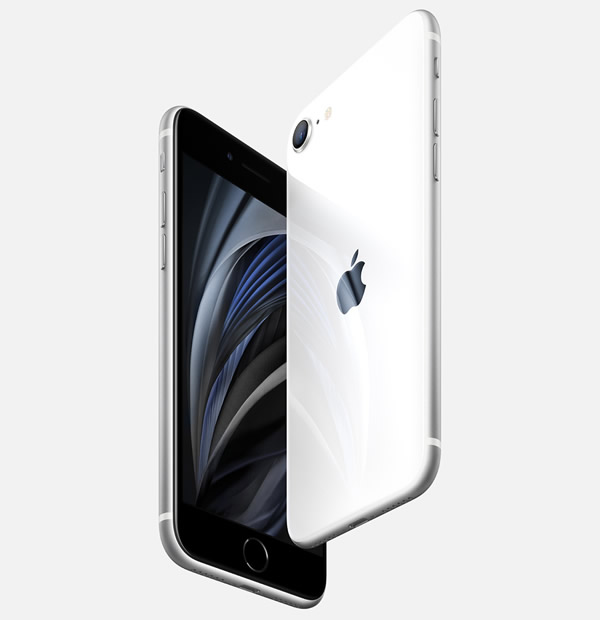
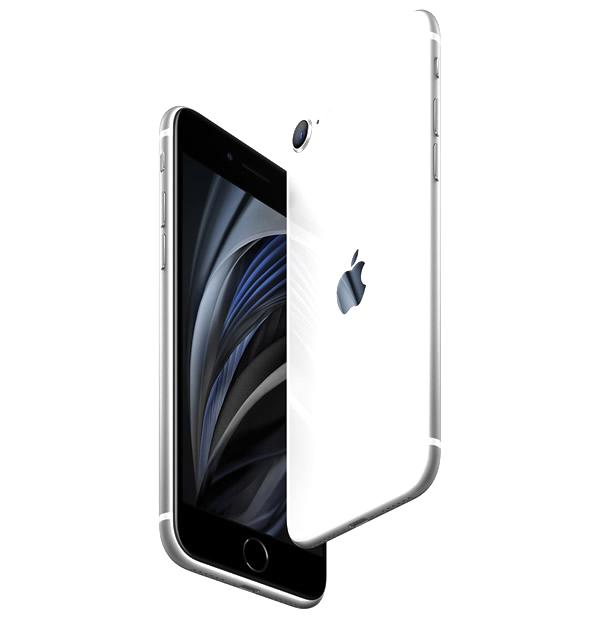
Fix product photo backgrounds, smooth page gradient, and scope home sections
- Swap funda_iphone15 primary/secondary images and normalize stray
  gray backgrounds on iphone13, iphone_se, ipad_10gen_2, galaxy_watch6_2
  and anker_20w_2 so all product cards sit on a clean white background
- Make the body background gradient span the full page instead of
  cutting to a flat color after 420px, and flatten the pink/blue/green
  section panels so products don't sit on visibly different shades
- Scope each home section's "Ver todos" link to what it actually shows
  (ofertas/destacados/nuevos) instead of the full catalog, with a
  "ver todo el catálogo" way out from the filtered view
- Add a clickable "Nuevos ingresos" banner to the home page linking to
  the new-arrivals filter, and drop the redundant per-item NUEVO tag

diff --git a/tienda-online/assets/css/style.css b/tienda-online/assets/css/style.css
@@ -3,7 +3,7 @@
 :root {
     --azul-oscuro: #1a2a4a;
     --acento: #2f6fed;
-    --fondo: #f5f6fa;
+    --fondo: #e9eef8;
     --texto: #222;
     --texto-suave: #666;
     --borde: #e4e7ee;
@@ -21,7 +21,7 @@ html, body {
 }
 
 body {
-    background-color: var(--fondo);
+    background: linear-gradient(180deg, #d7e3f7 0%, var(--fondo) 100%);
     color: var(--texto);
     display: flex;
     flex-direction: column;
@@ -34,8 +34,9 @@ a {
 }
 
 header {
-    background-color: var(--azul-oscuro);
-    color: #fff;
+    background-color: #fff;
+    color: var(--texto);
+    border-bottom: 1px solid var(--borde);
     padding: 1rem 2rem;
     display: flex;
     justify-content: space-between;
@@ -61,6 +62,7 @@ header .logo {
     display: flex;
     align-items: center;
     background: #fff;
+    border: 1px solid var(--borde);
     border-radius: 8px;
     overflow: hidden;
     flex-grow: 1;
@@ -109,12 +111,12 @@ header nav {
 }
 
 header nav a {
-    color: #cfd7e8;
+    color: var(--texto-suave);
     font-size: 0.9rem;
 }
 
 header nav a.activo {
-    color: #fff;
+    color: var(--azul-oscuro);
     font-weight: 600;
 }
 
@@ -133,8 +135,8 @@ header nav a.boton {
 }
 
 .btn-categorias {
-    background: rgba(255, 255, 255, 0.1);
-    color: #fff;
+    background: var(--fondo);
+    color: var(--azul-oscuro);
     border: none;
     padding: 0.55rem 0.9rem;
     border-radius: 6px;
@@ -146,7 +148,7 @@ header nav a.boton {
 }
 
 .btn-categorias:hover {
-    background: rgba(255, 255, 255, 0.2);
+    background: #e4e7ee;
 }
 
 .panel-categorias {
@@ -198,7 +200,7 @@ header nav a.boton {
 .btn-carrito-nav {
     background: none;
     border: none;
-    color: #cfd7e8;
+    color: var(--texto-suave);
     font-size: 0.9rem;
     cursor: pointer;
     padding: 0;
@@ -206,7 +208,7 @@ header nav a.boton {
 }
 
 .btn-carrito-nav:hover {
-    color: #fff;
+    color: var(--acento);
 }
 
 .panel-carrito-mini {
@@ -358,8 +360,9 @@ main {
 }
 
 footer {
-    background: var(--azul-oscuro);
-    color: #cfd7e8;
+    background: #fff;
+    color: var(--texto-suave);
+    border-top: 1px solid var(--borde);
     text-align: center;
     padding: 1rem;
     font-size: 0.85rem;
@@ -391,19 +394,19 @@ footer {
 }
 
 .footer-col h4 {
-    color: #fff;
+    color: var(--azul-oscuro);
     font-size: 0.9rem;
     margin-bottom: 0.4rem;
 }
 
 .footer-col a,
 .footer-col p {
-    color: #cfd7e8;
+    color: var(--texto-suave);
     font-size: 0.85rem;
 }
 
 .footer-col a:hover {
-    color: #fff;
+    color: var(--acento);
 }
 
 .footer-col .logo-img {
@@ -421,7 +424,7 @@ footer {
     width: 34px;
     height: 34px;
     border-radius: 50%;
-    background: rgba(255, 255, 255, 0.1);
+    background: var(--fondo);
     display: flex;
     align-items: center;
     justify-content: center;
@@ -439,7 +442,7 @@ footer {
 }
 
 .footer-inferior {
-    border-top: 1px solid rgba(255, 255, 255, 0.12);
+    border-top: 1px solid var(--borde);
     text-align: center;
     padding: 1rem;
     font-size: 0.8rem;
@@ -461,6 +464,17 @@ footer {
     font-size: 0.95rem;
     margin-bottom: 1.5rem;
     background: #fff;
+}
+
+.filtro-activo-info {
+    margin: -0.5rem 0 1rem;
+    color: var(--texto-suave);
+    font-size: 0.9rem;
+}
+
+.filtro-activo-info a {
+    color: var(--acento);
+    font-weight: 600;
 }
 
 .layout-catalogo {
@@ -836,15 +850,33 @@ footer {
 }
 
 .seccion-ofertas {
-    background: linear-gradient(135deg, #fff1f0, #ffe1df);
+    background: #ffd9d3;
 }
 
 .seccion-destacados {
-    background: linear-gradient(135deg, #eef2fb, #e3e9f8);
+    background: #d3e0f9;
 }
 
 .seccion-nuevos {
-    background: linear-gradient(135deg, #eafbf3, #dcf5e9);
+    background: #c5f1dc;
+}
+
+.banner-seccion {
+    display: block;
+    margin-bottom: 1.5rem;
+    border-radius: 12px;
+    overflow: hidden;
+    transition: opacity 0.2s ease;
+}
+
+.banner-seccion:hover {
+    opacity: 0.92;
+}
+
+.banner-seccion img {
+    display: block;
+    width: 100%;
+    height: auto;
 }
 
 /* Productos destacados: grilla fija de 4, sin scroll */

diff --git a/tienda-online/assets/js/productos.js b/tienda-online/assets/js/productos.js
@@ -2,6 +2,18 @@
 
 let TODOS_LOS_PRODUCTOS = [];
 
+// Secciones de la home ("Ver todos ›") que llegan al catálogo con ?filtro=... :
+// cada una limita el listado a lo que esa sección realmente muestra, en vez
+// de todo el catálogo (que solo se ve entrando por "Catálogo" o sin filtro).
+const FILTROS_SECCION = {
+    ofertas: { titulo: '🔥 Ofertas del mes' },
+    destacados: { titulo: '⭐ Productos destacados' },
+    nuevos: { titulo: '🆕 Ingreso nuevo' }
+};
+
+let FILTRO_SECCION_ACTUAL = null;
+let IDS_FILTRO_SECCION = null;
+
 async function cargarProductos() {
     const contenedor = document.getElementById('grid-productos');
 
@@ -21,11 +33,41 @@ async function cargarProductos() {
         llenarSelectCategorias(categorias);
         preseleccionarCategoriaDesdeUrl();
         preseleccionarBusquedaDesdeUrl();
+        aplicarFiltroSeccionDesdeUrl();
         aplicarFiltros();
     } catch (error) {
         contenedor.innerHTML = '<p>No se pudieron cargar los productos. Verifica que el servidor y la base de datos estén activos.</p>';
         console.error(error);
     }
+}
+
+function aplicarFiltroSeccionDesdeUrl() {
+    const params = new URLSearchParams(window.location.search);
+    const filtro = params.get('filtro');
+    if (!filtro || !FILTROS_SECCION[filtro]) return;
+
+    FILTRO_SECCION_ACTUAL = filtro;
+
+    if (filtro === 'destacados') {
+        IDS_FILTRO_SECCION = new Set(seleccionarDestacadosPorCategoria(TODOS_LOS_PRODUCTOS, 2).map(p => p.id_producto));
+    } else if (filtro === 'nuevos') {
+        IDS_FILTRO_SECCION = new Set(seleccionarNuevos(TODOS_LOS_PRODUCTOS, 10).map(p => p.id_producto));
+    }
+
+    const titulo = document.getElementById('titulo-catalogo');
+    if (titulo) titulo.textContent = FILTROS_SECCION[filtro].titulo;
+
+    const aviso = document.getElementById('filtro-activo-info');
+    if (aviso) {
+        aviso.innerHTML = 'Mostrando solo esta sección. <a href="productos.php">Ver todo el catálogo ›</a>';
+        aviso.style.display = 'block';
+    }
+}
+
+function coincideFiltroSeccion(producto) {
+    if (!FILTRO_SECCION_ACTUAL) return true;
+    if (FILTRO_SECCION_ACTUAL === 'ofertas') return Boolean(producto.precio_oferta);
+    return IDS_FILTRO_SECCION.has(producto.id_producto);
 }
 
 function preseleccionarCategoriaDesdeUrl() {
@@ -99,7 +141,7 @@ function aplicarFiltros() {
         const coincidePrecio = !precioMax || Number(producto.precio) <= Number(precioMax);
         const coincideDisponibilidad = !soloDisponibles || Number(producto.cantidad) > 0;
 
-        return coincideTexto && coincideCategoria && coincidePrecio && coincideDisponibilidad;
+        return coincideTexto && coincideCategoria && coincidePrecio && coincideDisponibilidad && coincideFiltroSeccion(producto);
     });
 
     renderizarProductos(resultado);

diff --git a/tienda-online/assets/js/inicio.js b/tienda-online/assets/js/inicio.js
@@ -8,7 +8,7 @@ async function cargarSeccionesProductos() {
 
         renderizarCarrusel('grid-ofertas', productos.filter(producto => producto.precio_oferta));
         renderizarGrillaFija('grid-destacados', seleccionarDestacadosPorCategoria(productos, 2).slice(0, 4));
-        renderizarListaNuevos('grid-nuevos', [...productos].sort((a, b) => b.id_producto - a.id_producto).slice(0, 5));
+        renderizarListaNuevos('grid-nuevos', seleccionarNuevos(productos, 5));
     } catch (error) {
         ['grid-destacados', 'grid-ofertas', 'grid-nuevos'].forEach(id => {
             const contenedor = document.getElementById(id);
@@ -55,7 +55,6 @@ function renderizarListaNuevos(idContenedor, productos) {
         <div class="item-nuevo">
             <div class="imagen-producto">${imagenProductoHtml(producto)}</div>
             <div class="info-nuevo">
-                <span class="etiqueta-nuevo">NUEVO</span>
                 <h3>${producto.nombre}</h3>
                 ${renderizarPrecioHtml(producto)}
             </div>
@@ -64,20 +63,6 @@ function renderizarListaNuevos(idContenedor, productos) {
                 : `<p class="sin-stock">Sin stock</p>`}
         </div>
     `).join('');
-}
-
-function seleccionarDestacadosPorCategoria(productos, cantidadPorCategoria) {
-    const porCategoria = {};
-
-    for (const producto of productos) {
-        const idCategoria = producto.id_categoria;
-        if (!porCategoria[idCategoria]) porCategoria[idCategoria] = [];
-        if (porCategoria[idCategoria].length < cantidadPorCategoria) {
-            porCategoria[idCategoria].push(producto);
-        }
-    }
-
-    return Object.values(porCategoria).flat();
 }
 
 function moverCarruselOfertas(direccion) {

diff --git a/tienda-online/assets/js/cart-utils.js b/tienda-online/assets/js/cart-utils.js
@@ -57,6 +57,26 @@ function renderizarTarjetaProductoHtml(producto) {
     `;
 }
 
+// Selección compartida entre inicio.js (secciones de la home) y productos.js
+// (catálogo filtrado desde "Ver todos ›" de cada sección)
+function seleccionarDestacadosPorCategoria(productos, cantidadPorCategoria) {
+    const porCategoria = {};
+
+    for (const producto of productos) {
+        const idCategoria = producto.id_categoria;
+        if (!porCategoria[idCategoria]) porCategoria[idCategoria] = [];
+        if (porCategoria[idCategoria].length < cantidadPorCategoria) {
+            porCategoria[idCategoria].push(producto);
+        }
+    }
+
+    return Object.values(porCategoria).flat();
+}
+
+function seleccionarNuevos(productos, cantidad) {
+    return [...productos].sort((a, b) => b.id_producto - a.id_producto).slice(0, cantidad);
+}
+
 function obtenerCarrito() {
     try {
         return JSON.parse(localStorage.getItem(CARRITO_KEY)) || [];

diff --git a/tienda-online/index.php b/tienda-online/index.php
@@ -65,7 +65,7 @@
         <section class="seccion-productos seccion-ofertas">
             <div class="encabezado-seccion">
                 <h2>🔥 Ofertas del mes</h2>
-                <a class="ver-mas" href="productos.php">Ver todos ›</a>
+                <a class="ver-mas" href="productos.php?filtro=ofertas">Ver todos ›</a>
             </div>
             <div class="carrusel-destacados">
                 <div class="carrusel-pista" id="grid-ofertas">
@@ -79,7 +79,7 @@
         <section class="seccion-productos seccion-destacados">
             <div class="encabezado-seccion">
                 <h2>⭐ Productos destacados</h2>
-                <a class="ver-mas" href="productos.php">Ver todos ›</a>
+                <a class="ver-mas" href="productos.php?filtro=destacados">Ver todos ›</a>
             </div>
             <div class="grid-destacados-fijo" id="grid-destacados">
                 <p>Cargando productos...</p>
@@ -89,8 +89,11 @@
         <section class="seccion-productos seccion-nuevos">
             <div class="encabezado-seccion">
                 <h2>🆕 Ingreso nuevo</h2>
-                <a class="ver-mas" href="productos.php">Ver todos ›</a>
+                <a class="ver-mas" href="productos.php?filtro=nuevos">Ver todos ›</a>
             </div>
+            <a href="productos.php?filtro=nuevos" class="banner-seccion">
+                <img src="assets/img/banner_nuevos.png" alt="Nuevos ingresos: los mejores celulares, laptops y más recién llegados a TechStore">
+            </a>
             <div class="lista-nuevos" id="grid-nuevos">
                 <p>Cargando productos...</p>
             </div>

diff --git a/tienda-online/productos.php b/tienda-online/productos.php
@@ -33,7 +33,8 @@
     </header>
 
     <main>
-        <h2 style="margin-bottom: 1rem; color: var(--azul-oscuro);">Catálogo de productos</h2>
+        <h2 id="titulo-catalogo" style="margin-bottom: 1rem; color: var(--azul-oscuro);">Catálogo de productos</h2>
+        <p id="filtro-activo-info" class="filtro-activo-info" style="display: none;"></p>
 
         <input type="search" id="buscador" class="buscador" placeholder="Buscar productos...">
 
